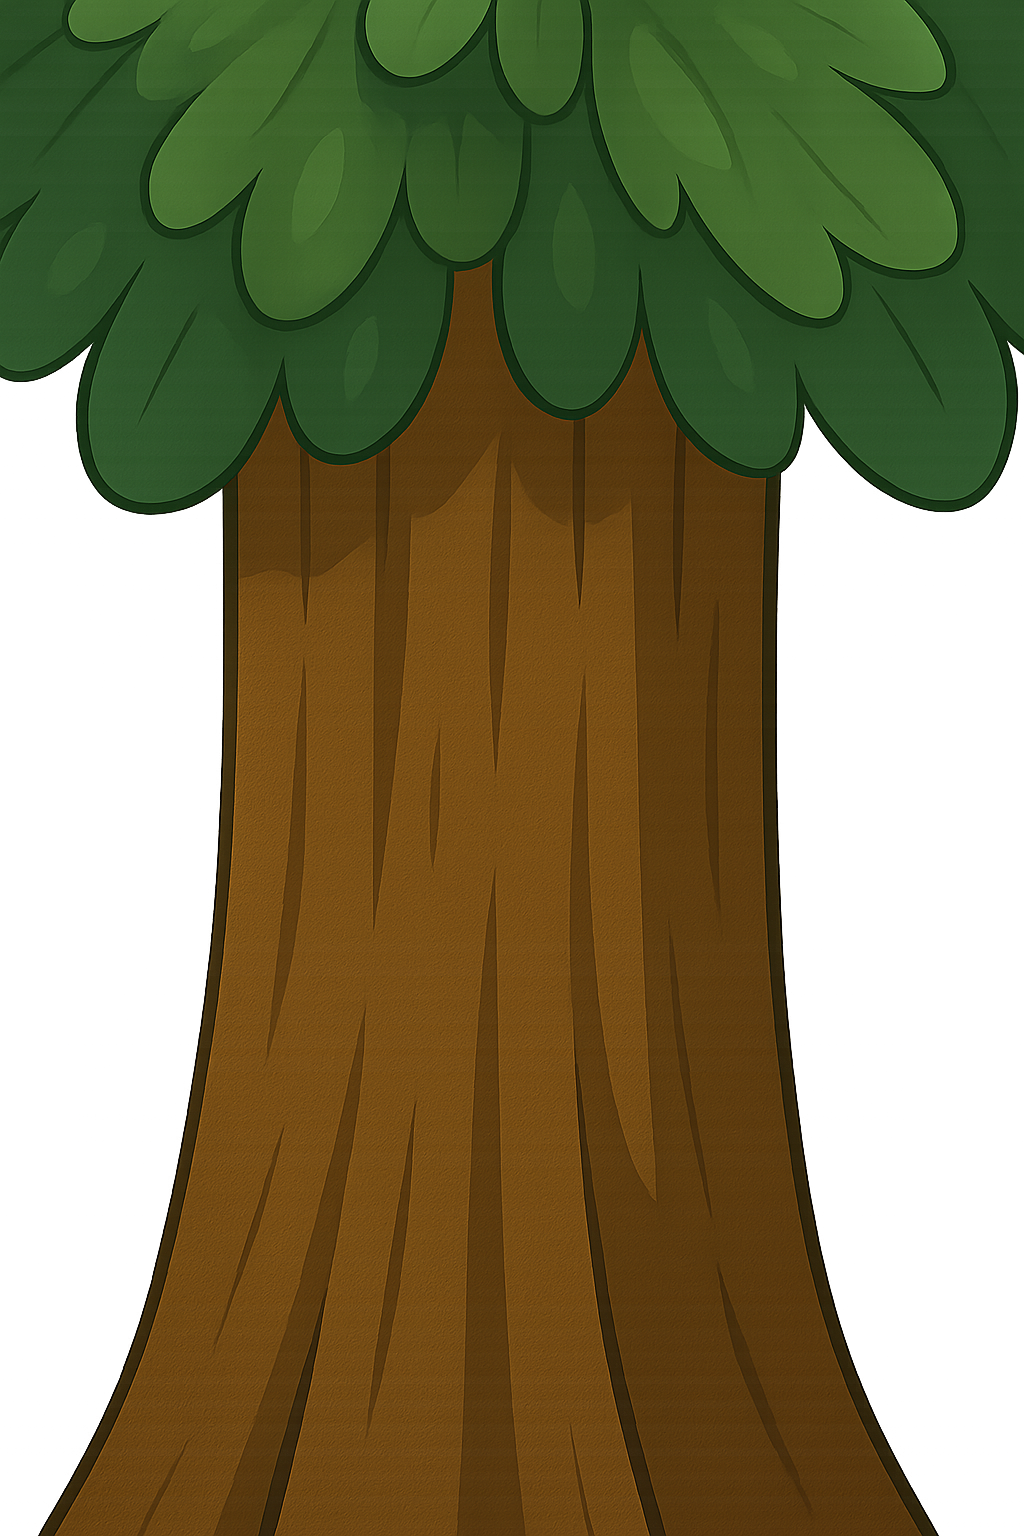
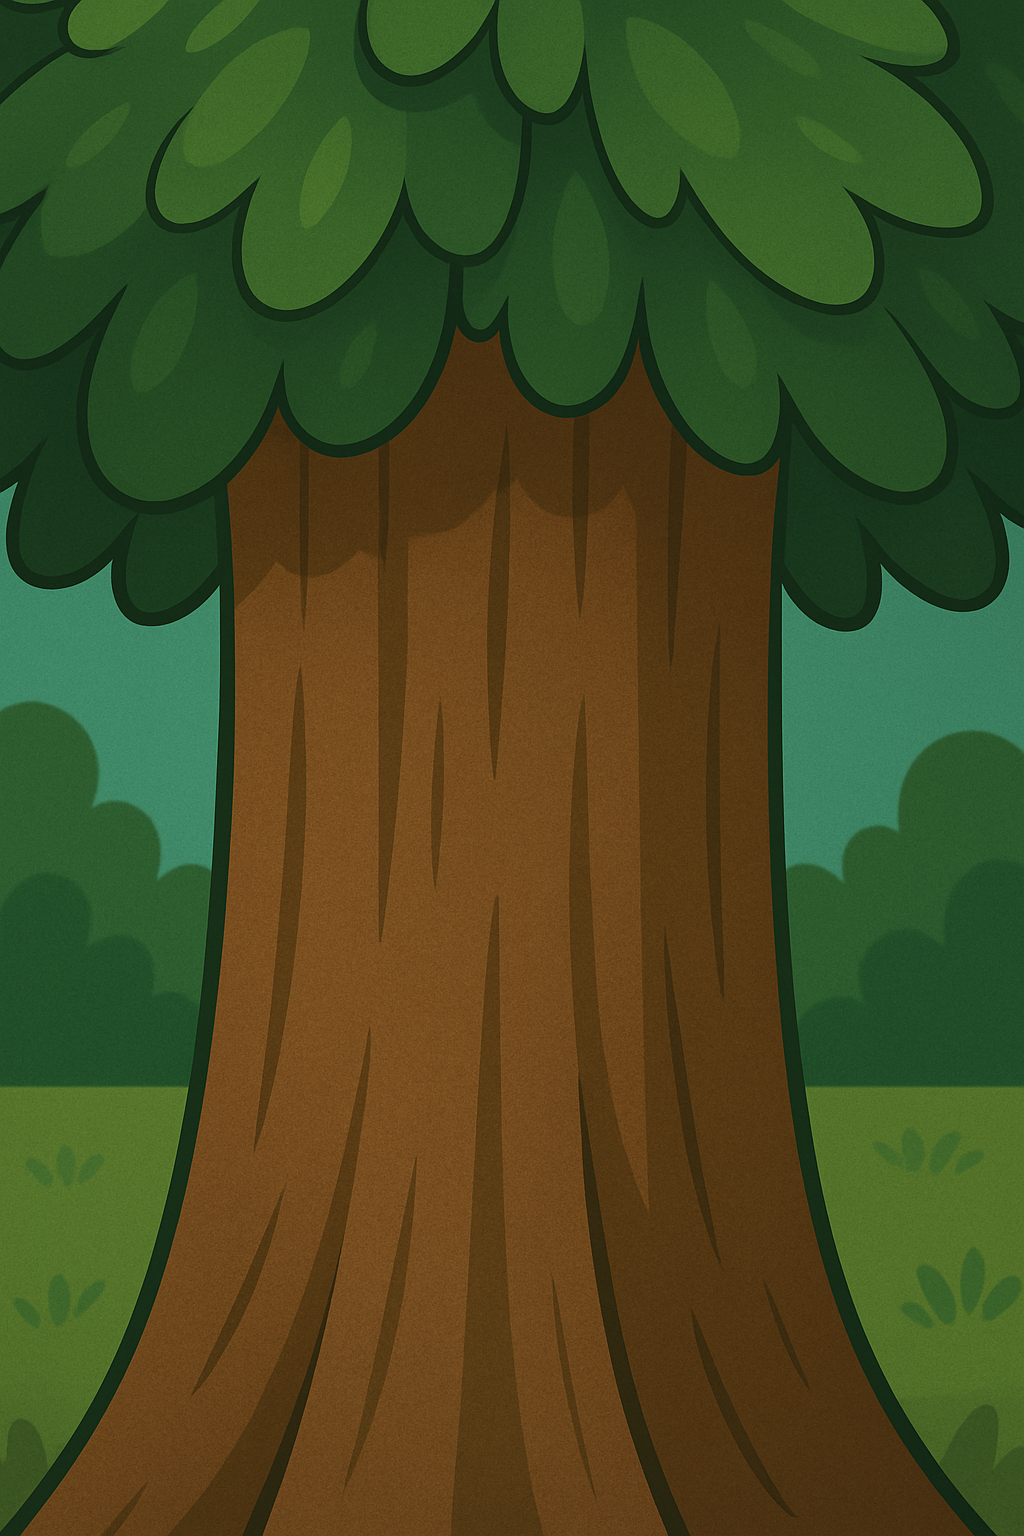
Updates background images

diff --git a/honeyhorde.js b/honeyhorde.js
@@ -1,6 +1,6 @@
 // Global variables
 let R = 5; // Hexagon radius (distance from center to corner)
-let size = 20; // Hexagon radius in pixels
+let size = 30; // Hexagon radius in pixels (increased for wider honeycomb)
 let origin = null; // Will be set in setup
 let filled = new Set(); // Stores filled hex positions as "q,r" strings
 let score = 0;
@@ -8,6 +8,8 @@ let piece; // Current draggable piece
 let dragging = false;
 let bg; // Graphics buffer for background
 let lastError = null; // Store last error for display
+let honeyImg;
+let bgImg; // New variable for background image
 
 // Predefined shapes (polyhexes) as arrays of [q,r] offsets
 const shapes = [
@@ -40,8 +42,8 @@ class Hex {
 
 // Convert hex coordinates to pixel coordinates (pointy-top orientation)
 function hexToPixel(hex) {
-  const x = size * Math.sqrt(3) * (hex.q + hex.r / 2);
-  const y = size * (3 / 2) * hex.r;
+  const x = size * Math.sqrt(3) * (hex.q + hex.r / 2); // Horizontal spacing
+  const y = size * (3 / 2) * hex.r; // Vertical spacing
   return createVector(origin.x + x, origin.y + y);
 }
 
@@ -70,7 +72,6 @@ function roundHex(frac) {
 
 // Check if a hex is within grid bounds
 function isWithinBounds(hex) {
-  // Hex is within hexagonal boundary if max(|q|, |r|, |s|) <= R
   let s = -hex.q - hex.r;
   return Math.max(Math.abs(hex.q), Math.abs(hex.r), Math.abs(s)) <= R;
 }
@@ -96,7 +97,7 @@ function generatePiece() {
     piece = {
       shape: shape,
       pixelOffsets: pixelOffsets,
-      pos: createVector(width / 2, height - 100) // Starting position below grid
+      pos: createVector(width / 2, height - 40) // Further down from the board
     };
     lastError = null;
   } catch (err) {
@@ -138,7 +139,7 @@ function removeLines() {
       for (let h of toRemove) {
         filled.delete(h);
       }
-      score += toRemove.size * 10; // 10 points per hex removed
+      score += toRemove.size * 10;
       removed = true;
     } else {
       removed = false;
@@ -153,31 +154,29 @@ function setup() {
   canvas.style('margin', 'auto');
   origin = createVector(width / 2, height / 2); // Center the grid
 
-  // Generate tree bark background with noise
+  // Initialize graphics buffer and draw the background image
   bg = createGraphics(width, height);
-  bg.loadPixels();
-  for (let x = 0; x < width; x++) {
-    for (let y = 0; y < height; y++) {
-      let n = noise(x * 0.01, y * 0.01);
-      let c = color(139 + n * 50, 69 + n * 50, 19 + n * 50); // Brown shades
-      bg.set(x, y, c);
-    }
-  }
-  bg.updatePixels();
+  bg.image(bgImg, 0, 0, width, height); // Draw image to buffer, scaled to canvas size
 
   generatePiece();
+}
+
+function preload() {
+  honeyImg = loadImage('img/honey.png');
+  bgImg = loadImage('img/tree.png'); // Load background image
 }
 
 // Draw function: render the game
 function draw() {
   try {
     background(0);
-    // if (treeBgImg) {
-    //   image(treeBgImg, 0, 0, width, height);
-    // }
-    image(bg, 0, 0); // Draw tree bark background
+    image(bg, 0, 0); // Draw background from buffer
 
-    // Draw hexagonal grid (true hexagon)
+    // Image size to cover hex without gaps
+    const imgW = size * Math.sqrt(3) * 1.15; // Slightly larger to fill
+    const imgH = size * 2 * 1.15;
+
+    // Draw hexagonal grid
     for (let q = -R; q <= R; q++) {
       for (let r = -R; r <= R; r++) {
         let s = -q - r;
@@ -185,9 +184,41 @@ function draw() {
         let hex = new Hex(q, r);
         let p = hexToPixel(hex);
         if (filled.has(hex.toString())) {
-          fill(255, 204, 0); // Yellow for honey-filled hexes
+          if (honeyImg) {
+            imageMode(CENTER);
+            image(honeyImg, p.x, p.y, imgW, imgH);
+            imageMode(CORNER);
+          } else {
+            fill(255, 204, 0);
+            noStroke();
+            drawHexagon(p.x, p.y, size);
+          }
         } else {
-          fill(200); // Gray for empty hexes
+          fill(200);
+          noStroke();
+          drawHexagon(p.x, p.y, size);
+        }
+      }
+    }
+
+    // Draw placement highlight when dragging
+    if (dragging) {
+      let targetHex = pixelToHex(piece.pos);
+      let canPlace = true;
+      for (let offset of piece.shape) {
+        let absHex = targetHex.add(offset);
+        if (!isWithinBounds(absHex) || filled.has(absHex.toString())) {
+          canPlace = false;
+          break;
+        }
+      }
+      for (let offset of piece.shape) {
+        let absHex = targetHex.add(offset);
+        let p = hexToPixel(absHex);
+        if (canPlace) {
+          fill(0, 255, 0, 100); // Green for valid placement
+        } else {
+          fill(255, 0, 0, 100); // Red for invalid placement
         }
         noStroke();
         drawHexagon(p.x, p.y, size);
@@ -198,9 +229,15 @@ function draw() {
     for (let i = 0; i < piece.shape.length; i++) {
       let offset = piece.pixelOffsets[i];
       let drawPos = p5.Vector.add(piece.pos, offset);
-      fill(255, 204, 0); // Yellow for honey
-      noStroke();
-      drawHexagon(drawPos.x, drawPos.y, size);
+      if (honeyImg) {
+        imageMode(CENTER);
+        image(honeyImg, drawPos.x, drawPos.y, imgW, imgH);
+        imageMode(CORNER);
+      } else {
+        fill(255, 204, 0);
+        noStroke();
+        drawHexagon(drawPos.x, p.y, size);
+      }
     }
 
     // Draw score
@@ -226,9 +263,21 @@ function draw() {
 // Handle mouse press to start dragging
 function mousePressed() {
   try {
-    let d = dist(mouseX, mouseY, piece.pos.x, piece.pos.y);
-    if (d < size * 1.5) { // Clicked near piece center
-      dragging = true;
+    // Adjusted hitbox for larger hexagons
+    let w = size * Math.sqrt(3);
+    let h = size * 2;
+    for (let i = 0; i < piece.shape.length; i++) {
+      let offset = piece.pixelOffsets[i];
+      let drawPos = p5.Vector.add(piece.pos, offset);
+      if (
+        mouseX >= drawPos.x - w / 2 &&
+        mouseX <= drawPos.x + w / 2 &&
+        mouseY >= drawPos.y - h / 2 &&
+        mouseY <= drawPos.y + h / 2
+      ) {
+        dragging = true;
+        break;
+      }
     }
     lastError = null;
   } catch (err) {

diff --git a/index.html b/index.html
@@ -11,6 +11,13 @@
             margin: 0;
             padding: 0;
         }
+        canvas {
+            border: 6px solid #000; /* black border */
+            border-radius: 18px;        /* rounded corners */
+            box-shadow: 0 0 24px #0006; /* subtle shadow */
+            display: block;
+            margin: 40px auto;
+        }
     </style>
 </head>
 <body>
